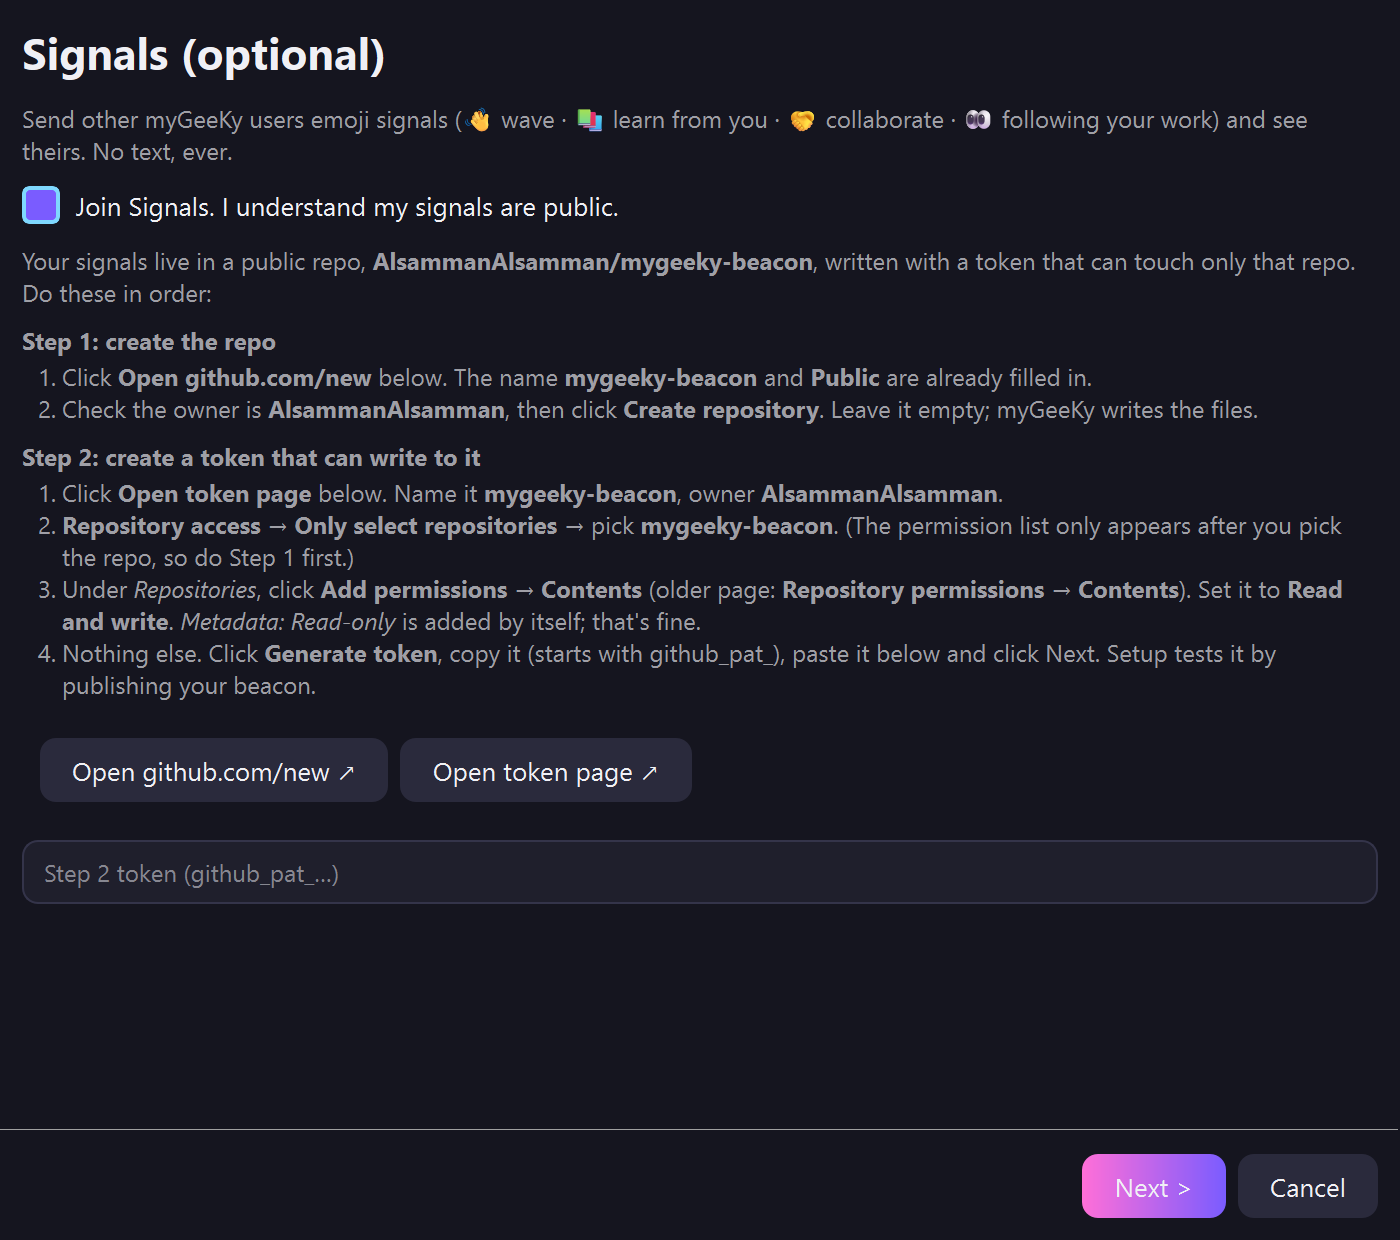
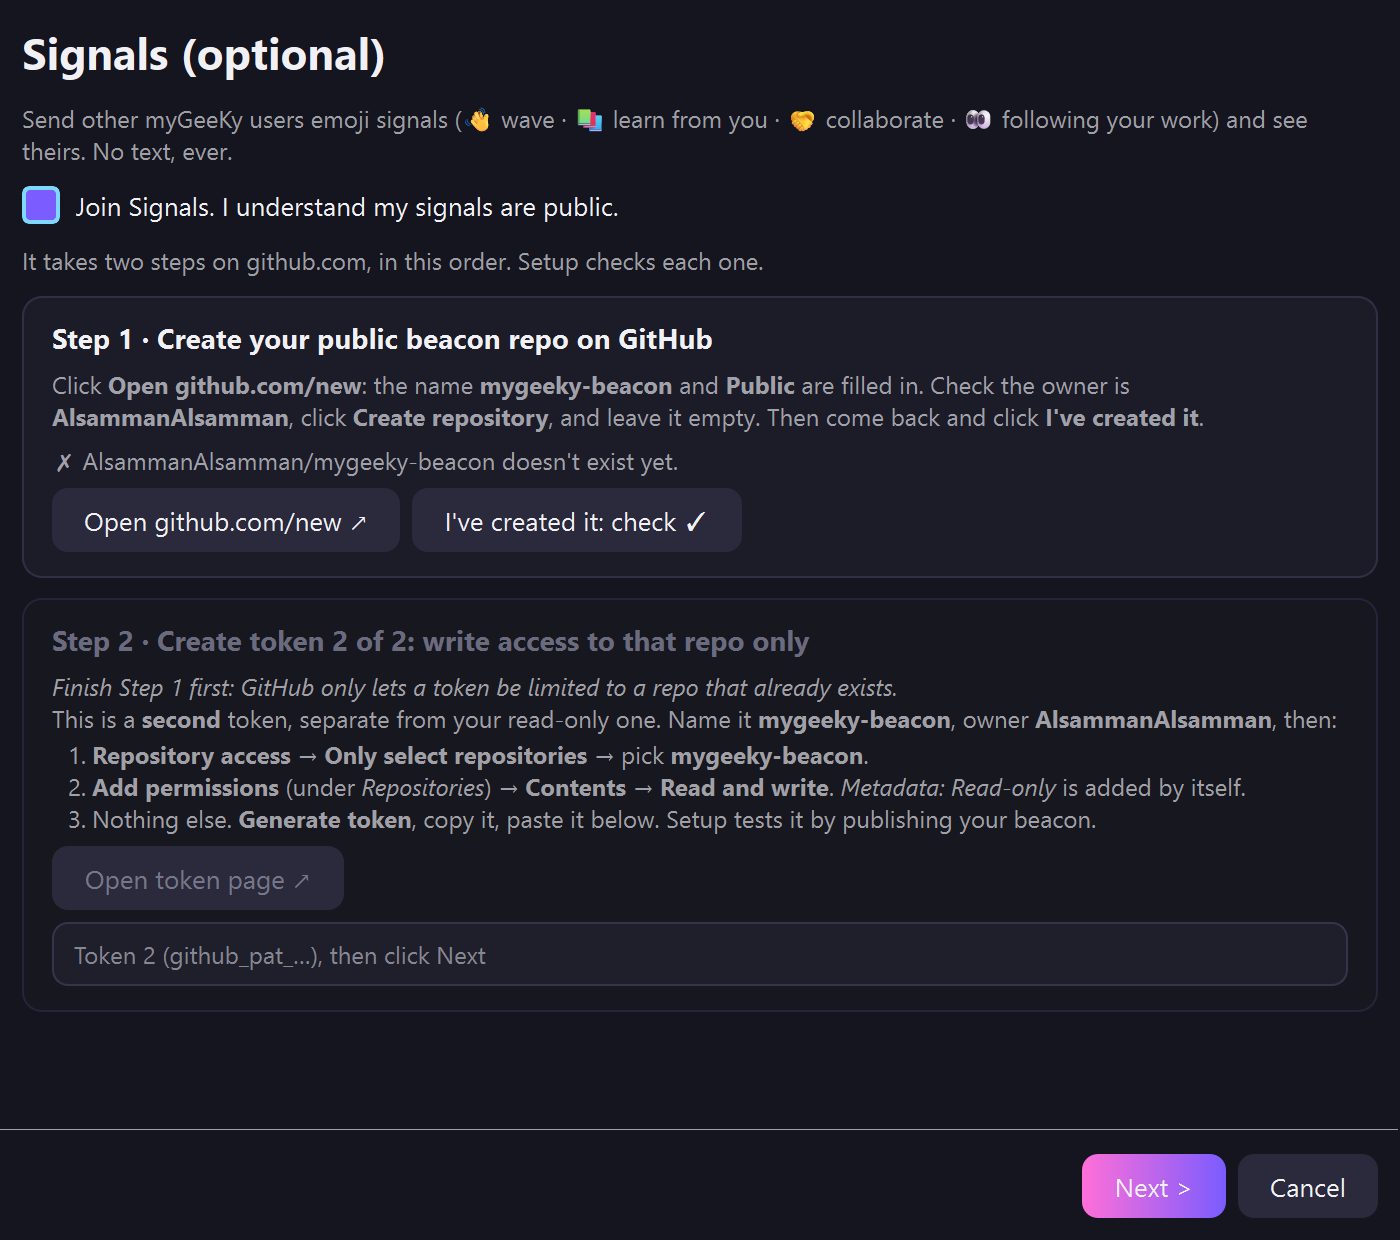
Signals setup in the installer: two steps, in order, with Step 2 locked until Step 1 is verified (0.4.6)
- The installer's Signals page is two cards. Step 1 (create the public
  mygeeky-beacon repo) shows a live ✗/✓ status from GitHub, with "Open
  github.com/new", "I've created it: check" and, when the GitHub CLI is
  installed, "Create it for me" (new setup_api action beacon_create_repo).
  Step 2 (the token) stays greyed out until the repo exists, because GitHub
  only lets a token be limited to an existing repo. Next refuses with a clear
  message if Step 1 or the token is missing.
- Both tokens are named for what they are: "token 1 of 2" (read-only, the
  Connect GitHub page) and "token 2 of 2" (Signals, write access to the
  beacon repo only), in the installer, `mygeeky beacon init` and the README.

Changed region(s): [[0.0, 0.1839, 0.9829, 0.7355], [0.0307, 0.7661, 0.3686, 0.7968]]

diff --git a/src/mygeeky/gui/setup_wizard.py b/src/mygeeky/gui/setup_wizard.py
@@ -33,6 +33,7 @@ from PySide6.QtWidgets import (
     QCheckBox,
     QFileDialog,
     QFormLayout,
+    QFrame,
     QHBoxLayout,
     QLabel,
     QLineEdit,
@@ -78,6 +79,10 @@ QCheckBox::indicator, QRadioButton::indicator { width: 15px; height: 15px; borde
 QCheckBox::indicator { border-radius: 4px; }
 QRadioButton::indicator { border-radius: 8px; }
 QCheckBox::indicator:checked, QRadioButton::indicator:checked { background: #7a5cff; border-color: #7fd8ff; }
+QFrame#stepCard { background: #1c1c29; border: 1px solid #2f2f45; border-radius: 10px; }
+QFrame#stepCard:disabled { background: #17171f; border-color: #24243a; }
+QLabel#stepTitle { font-size: 14px; font-weight: 700; }
+QLabel:disabled { color: #6b6b80; }
 QProgressBar { background: #1f1f2c; border: none; border-radius: 4px; height: 8px; }
 QProgressBar::chunk { background: qlineargradient(x1:0,y1:0,x2:1,y2:0, stop:0 #ff6fd8, stop:1 #7a5cff);
     border-radius: 4px; }
@@ -682,9 +687,10 @@ class ProfilePage(Page):
 
 class TokenPage(Page):
     def __init__(self) -> None:
-        super().__init__("Connect GitHub",
-                         "myGeeKy reads public profiles, repos and followers. It needs a token with "
-                         "read access only, and never anything that could follow someone.")
+        super().__init__("Connect GitHub: token 1 of 2",
+                         "myGeeKy reads public profiles, repos and followers, so this token is read-only "
+                         "and can never follow anyone. (Signals, on a later page and optional, uses a "
+                         "separate second token.)")
         self.keep = QRadioButton("")
         self.paste = QRadioButton("Paste a read-only token")
         self.add(self.keep)
@@ -764,7 +770,7 @@ class SyncPage(Page):
 LINK = 'style="color:#7fd8ff"'
 
 READ_TOKEN_STEPS = (
-    "<b>To create a read-only token:</b><ol style='margin:2px 0 0 -20px'>"
+    "<b>To create token 1 (read-only):</b><ol style='margin:2px 0 0 -20px'>"
     f"<li>Open <a {LINK} href='{READ_TOKEN_URL}'>github.com → new fine-grained token ↗</a>. "
     "Name it <b>mygeeky</b>.</li>"
     "<li><b>Repository access</b> → choose <b>Public repositories</b>.</li>"
@@ -778,113 +784,178 @@ NEW_BEACON_REPO_URL = ("https://github.com/new?name=mygeeky-beacon&visibility=pu
 OL = "<ol style='margin:2px 0 6px -20px'>"
 
 
-def beacon_steps(user: str, has_gh: bool, repo_exists: bool = False) -> str:
-    """The same steps as beacon.repo_steps/token_steps (kept in sync by hand:
-    this file can't import myGeeKy, which may not be installed yet)."""
-    repo = (f"✓ Done: <b>{user}/mygeeky-beacon</b> already exists." if repo_exists else
-            f"Setup creates the public repo <b>{user}/mygeeky-beacon</b> for you." if has_gh else
-            OL + "<li>Click <b>Open github.com/new</b> below. The name <b>mygeeky-beacon</b> and "
-            f"<b>Public</b> are already filled in.</li><li>Check the owner is <b>{user}</b>, then click "
-            "<b>Create repository</b>. Leave it empty; myGeeKy writes the files.</li></ol>")
-    return (
-        f"Your signals live in a public repo, <b>{user}/mygeeky-beacon</b>, written with a token that can "
-        "touch only that repo. Do these in order:"
-        f"<p style='margin:8px 0 2px'><b>Step 1: create the repo</b></p>{repo}"
-        "<p style='margin:8px 0 2px'><b>Step 2: create a token that can write to it</b></p>" + OL +
-        f"<li>Click <b>Open token page</b> below. Name it <b>mygeeky-beacon</b>, owner <b>{user}</b>.</li>"
-        "<li><b>Repository access</b> → <b>Only select repositories</b> → pick <b>mygeeky-beacon</b>. "
-        "(The permission list only appears after you pick the repo, so do Step 1 first.)</li>"
-        "<li>Under <i>Repositories</i>, click <b>Add permissions</b> → <b>Contents</b> "
-        "(older page: <b>Repository permissions</b> → <b>Contents</b>). Set it to <b>Read and write</b>. "
-        "<i>Metadata: Read-only</i> is added by itself; that's fine.</li>"
-        "<li>Nothing else. Click <b>Generate token</b>, copy it (starts with github_pat_), paste it below "
-        "and click Next. Setup tests it by publishing your beacon.</li></ol>")
+def _card(title: str) -> tuple[QFrame, QVBoxLayout]:
+    card = QFrame()
+    card.setObjectName("stepCard")
+    lay = QVBoxLayout(card)
+    lay.setContentsMargins(14, 10, 14, 12)
+    lay.setSpacing(6)
+    head = QLabel(title)
+    head.setObjectName("stepTitle")
+    lay.addWidget(head)
+    return card, lay
 
 
 class SignalsPage(Page):
+    """Two steps, in an order GitHub forces: the repo must exist before a token
+    can be limited to it. Step 2 stays locked until Step 1 is verified on GitHub."""
+
     def __init__(self) -> None:
         super().__init__("Signals (optional)",
                          "Send other myGeeKy users emoji signals (👋 wave · 📚 learn from you · "
                          "🤝 collaborate · 👀 following your work) and see theirs. No text, ever.")
-        self._stage = "none"
+        self._stage = "none"            # none | partial | live | checking
         self.enable = QCheckBox("Join Signals. I understand my signals are public.")
         self.add(self.enable)
-        self.steps = _label("", "muted")
-        self.steps.setTextFormat(Qt.RichText)
-        self.add(self.steps)
-        buttons = QHBoxLayout()
+        self.summary = _label("", "muted")
+        self.summary.setTextFormat(Qt.RichText)
+        self.add(self.summary)
+
+        # Step 1: the public repo
+        self.step1, lay1 = _card("Step 1 · Create your public beacon repo on GitHub")
+        self.step1_text = _label("", "muted")
+        self.step1_text.setTextFormat(Qt.RichText)
+        lay1.addWidget(self.step1_text)
+        self.step1_status = _label("")
+        lay1.addWidget(self.step1_status)
+        row1 = QHBoxLayout()
         self.open_repo = QPushButton("Open github.com/new ↗")
         self.open_repo.clicked.connect(lambda: QDesktopServices.openUrl(QUrl(NEW_BEACON_REPO_URL)))
+        self.create_repo = QPushButton("Create it for me")
+        self.create_repo.clicked.connect(self._create_repo)
+        self.check_repo = QPushButton("I've created it: check ✓")
+        self.check_repo.clicked.connect(self._recheck)
+        for b in (self.open_repo, self.create_repo, self.check_repo):
+            row1.addWidget(b)
+        row1.addStretch(1)
+        lay1.addLayout(row1)
+        self.add(self.step1)
+
+        # Step 2: a second token, for that repo only
+        self.step2, lay2 = _card("Step 2 · Create token 2 of 2: write access to that repo only")
+        self.step2_text = _label("", "muted")
+        self.step2_text.setTextFormat(Qt.RichText)
+        lay2.addWidget(self.step2_text)
+        row2 = QHBoxLayout()
         self.open_token = QPushButton("Open token page ↗")
         self.open_token.clicked.connect(lambda: QDesktopServices.openUrl(QUrl(READ_TOKEN_URL)))
-        buttons.addWidget(self.open_repo)
-        buttons.addWidget(self.open_token)
-        buttons.addStretch(1)
-        self.buttons = QWidget()
-        self.buttons.setLayout(buttons)
-        self.add(self.buttons)
+        row2.addWidget(self.open_token)
+        row2.addStretch(1)
+        lay2.addLayout(row2)
         self.token = QLineEdit()
         self.token.setEchoMode(QLineEdit.Password)
-        self.token.setPlaceholderText("Step 2 token (github_pat_…)")
-        self.add(self.token)
-        self.enable.toggled.connect(self._toggle)
+        self.token.setPlaceholderText("Token 2 (github_pat_…), then click Next")
+        lay2.addWidget(self.token)
+        self.add(self.step2)
+
+        self.enable.toggled.connect(lambda on: self._render())
         self.finish_layout()
 
-    def _toggle(self, on: bool) -> None:
+    # ---- state -> widgets
+    def _render(self) -> None:
         s = self.w.state
-        setting_up = on and not s.get("beacon_enabled")
-        live = self._stage == "live"
-        setting_up = on and not (live and s.get("beacon_enabled") and s.get("beacon_token"))
-        self.steps.setVisible(True)   # read what joining involves before deciding
-        self.buttons.setVisible(setting_up and not live)
-        self.open_repo.setVisible(setting_up and self._stage == "none" and not s.get("gh"))
-        self.token.setVisible(setting_up and not (live and s.get("beacon_token")))
+        user = s.get("github_username", "you")
+        on = self.enable.isChecked()
+        stage = self._stage
+        repo_exists = stage in ("partial", "live")
+        done = stage == "live" and s.get("beacon_enabled") and s.get("beacon_token")
+        self.step1.setVisible(on and not done)
+        self.step2.setVisible(on and not done)
+        if stage == "checking":
+            self.step1_status.setText("Checking GitHub…")
+        elif repo_exists:
+            self.step1_status.setText(f"✓ {user}/mygeeky-beacon exists and is public. Step 1 is done.")
+        else:
+            self.step1_status.setText(f"✗ {user}/mygeeky-beacon doesn't exist yet.")
+        self.step1_status.setObjectName("ok" if repo_exists else "muted")
+        self.step1_status.style().unpolish(self.step1_status)
+        self.step1_status.style().polish(self.step1_status)
+        self.step1_text.setText(
+            f"Click <b>Open github.com/new</b>: the name <b>mygeeky-beacon</b> and <b>Public</b> are filled "
+            f"in. Check the owner is <b>{user}</b>, click <b>Create repository</b>, and leave it empty. "
+            "Then come back and click <b>I've created it</b>.")
+        for b in (self.open_repo, self.check_repo):
+            b.setVisible(not repo_exists)
+        self.create_repo.setVisible(not repo_exists and bool(s.get("gh")))
+        self.check_repo.setEnabled(stage != "checking")
+
+        self.step2.setEnabled(repo_exists)
+        self.step2_text.setText(
+            ("<i>Finish Step 1 first: GitHub only lets a token be limited to a repo that already exists.</i><br>"
+             if not repo_exists else "") +
+            "This is a <b>second</b> token, separate from your read-only one. "
+            f"Name it <b>mygeeky-beacon</b>, owner <b>{user}</b>, then:" + OL +
+            "<li><b>Repository access</b> → <b>Only select repositories</b> → pick <b>mygeeky-beacon</b>.</li>"
+            "<li><b>Add permissions</b> (under <i>Repositories</i>) → <b>Contents</b> → <b>Read and write</b>. "
+            "<i>Metadata: Read-only</i> is added by itself.</li>"
+            "<li>Nothing else. <b>Generate token</b>, copy it, paste it below. Setup tests it by "
+            "publishing your beacon.</li></ol>")
         if s.get("beacon_token"):
             self.token.setPlaceholderText("Leave empty to use the token already saved, or paste a new one")
 
     def initializePage(self) -> None:  # noqa: N802
         super().initializePage()
-        self._stage = "checking"
-        self.steps.setText("Checking your Signals setup on GitHub…")
         self.enable.setChecked(bool(self.w.state.get("beacon_enabled")))
-        self._toggle(self.enable.isChecked())
+        self._recheck()
+
+    def _recheck(self) -> None:
+        self._stage = "checking"
+        self.summary.setText("Checking your Signals setup on GitHub…")
+        self._render()
         python = self.w.python
         self._checker = Worker(lambda wk: api(python, "beacon_check", timeout=60))
         self._checker.done.connect(self._checked)
         self._checker.start()
 
+    def _create_repo(self) -> None:
+        self.create_repo.setEnabled(False)
+        self.step1_status.setText("Creating it with the GitHub CLI…")
+        python = self.w.python
+        self._creator = Worker(lambda wk: api(python, "beacon_create_repo", timeout=120))
+        self._creator.done.connect(lambda r: (self.create_repo.setEnabled(True),
+                                              self.say(r.get("error"), "err") if not r.get("ok") else None,
+                                              self._recheck()))
+        self._creator.start()
+
     def _checked(self, result: Any) -> None:
         """Tick the box for anyone who already has a beacon on GitHub (from
-        another computer, or a setup that stopped halfway), and say exactly
-        where they stand. A brand-new user stays unticked: joining makes your
-        signals public, so it must be their own choice."""
+        another computer, or a setup that stopped halfway), and say where
+        they stand. A brand-new user stays unticked: joining makes signals
+        public, so it must be their own choice."""
         s = self.w.state
         user = s.get("github_username", "you")
         result = result if isinstance(result, dict) else {}
         self._stage = result.get("stage", "none") if result.get("ok") else "none"
-        lines = "".join(f"<br>{'✓' if ok else '✗'} {msg}" for ok, msg in result.get("results") or [])
         repo_link = f"<a {LINK} href='https://github.com/{user}/mygeeky-beacon'>{user}/mygeeky-beacon ↗</a>"
         if self._stage == "live":
             self.enable.setChecked(True)
-            extra = ("" if s.get("beacon_token") else
-                     "<br><br>To send signals from <b>this</b> computer, paste a token made with Step 2 below "
-                     "(or the one you used before).")
-            self.steps.setText(f"<b>You're on Signals:</b> {repo_link}{lines}{extra}")
+            if s.get("beacon_enabled") and s.get("beacon_token"):
+                self.summary.setText(f"<b>✓ You're on Signals:</b> {repo_link}. Nothing to do here.")
+            else:
+                self.summary.setText(f"<b>Your beacon is live</b> ({repo_link}). To send signals from this "
+                                     "computer, paste a token made with Step 2.")
         elif self._stage == "partial":
             self.enable.setChecked(True)
-            self.steps.setText(f"<b>Your Signals setup isn't finished yet</b> ({repo_link}):{lines}"
-                               "<br><br>" + beacon_steps(user, has_gh=True, repo_exists=True))
+            missing = [msg for ok, msg in result.get("results") or [] if not ok]
+            self.summary.setText(f"<b>Your Signals setup isn't finished yet</b> ({repo_link}). "
+                                 + (f"Still missing: {missing[-1]}" if missing else ""))
         else:
-            self.steps.setText(beacon_steps(user, has_gh=bool(s.get("gh"))))
-        self._toggle(self.enable.isChecked())
+            self.summary.setText("It takes two steps on github.com, in this order. Setup checks each one.")
+        self._render()
 
+    # ---- Next
     def job(self):
         s = self.w.state
         if not self.enable.isChecked():
             return None
         if self._stage == "live" and s.get("beacon_enabled") and s.get("beacon_token"):
             return None
+        if self._stage not in ("partial", "live"):
+            return lambda wk: {"ok": False, "error": "Do Step 1 first: create the mygeeky-beacon repo on GitHub, "
+                                                     "then click \"I've created it\". Or untick Join Signals."}
         token = self.token.text().strip()
+        if not token and not s.get("beacon_token"):
+            return lambda wk: {"ok": False, "error": "Paste token 2 (Step 2) first, or untick Join Signals."}
         python = self.w.python
         return lambda wk: api(python, "beacon_init", {"token": token})
 

diff --git a/src/mygeeky/setup_api.py b/src/mygeeky/setup_api.py
@@ -190,6 +190,18 @@ def beacon_check(req: dict[str, Any]) -> dict[str, Any]:
     return {"ok": True, "stage": stage, "results": [[ok, msg] for ok, msg in results]}
 
 
+def beacon_create_repo(req: dict[str, Any]) -> dict[str, Any]:
+    """Step 1 done for the user, when the GitHub CLI is installed and logged in."""
+    from . import auth, beacon
+    from .config import load_config
+    from .github_client import GitHubClient
+    _ensure_gh_on_path()
+    cfg = load_config()
+    notes = beacon.ensure_repo(cfg, GitHubClient(auth.get_token(cfg.github_username), rate_limit_sleep=0),
+                               create=True)
+    return {"ok": True, "notes": notes}
+
+
 def schedule(req: dict[str, Any]) -> dict[str, Any]:
     from . import scheduler
     message = scheduler.install(confirmed=True)
@@ -204,6 +216,7 @@ ACTIONS: dict[str, Callable[[dict[str, Any]], dict[str, Any]]] = {
     "sync_init": sync_init,
     "beacon_init": beacon_init,
     "beacon_check": beacon_check,
+    "beacon_create_repo": beacon_create_repo,
     "schedule": schedule,
 }
 

diff --git a/src/mygeeky/cli.py b/src/mygeeky/cli.py
@@ -1176,7 +1176,7 @@ def beacon_init() -> None:
     click.secho(f"  ✓ {repo} exists and is public.", fg="green")
 
     # Step 2: a token that can write to that one repo, tested by really publishing
-    click.secho("\nStep 2 of 3: a token that can write to that repo only", bold=True)
+    click.secho("\nStep 2 of 3: a second token, that can write to that repo only", bold=True)
     token = auth.get_beacon_token(user)
     for attempt in range(3):
         if not token:

diff --git a/src/mygeeky/beacon.py b/src/mygeeky/beacon.py
@@ -552,6 +552,7 @@ def repo_steps(user: str) -> list[str]:
 
 def token_steps(user: str) -> list[str]:
     return [
+        "This is a SECOND token, separate from your read-only one, and it needs the repo from step 1.",
         f"Open {TOKEN_URL}",
         f"Token name: mygeeky-beacon. Resource owner: {user}. Pick any expiration.",
         "Repository access: choose 'Only select repositories', then pick mygeeky-beacon.",

diff --git a/src/mygeeky/__init__.py b/src/mygeeky/__init__.py
@@ -4,4 +4,4 @@ myGeeKy never follows anyone automatically. It only ever suggests; you
 decide who to follow, by hand, on github.com.
 """
 
-__version__ = "0.4.5"
+__version__ = "0.4.6"

diff --git a/README.md b/README.md
@@ -221,8 +221,13 @@ mygeeky market        # what's rising in your field
 mygeeky beacon init
 ```
 
-It walks you through two things on github.com (a public `mygeeky-beacon` repo
-and a token that can write only to it), checking each step. Details in
+It walks you through two things on github.com, **in this order**:
+1. create a public repo named `mygeeky-beacon`;
+2. create a **second** token (separate from your read-only one) that can write
+   to that repo only. It can only be made once the repo exists.
+
+It checks each step before going on. The Windows installer does the same on its
+*Signals* page, where Step 2 unlocks once Step 1 is verified. Details in
 [Join Signals, step by step](#join-signals-step-by-step).
 
 <details>
@@ -487,7 +492,10 @@ each step worked before going on.
    empty; myGeeKy writes the files. (If the GitHub CLI `gh` is installed and
    logged in, myGeeKy creates the repo for you instead.)
 
-**Step 2: create a token that can write to that one repo.**
+**Step 2: create a second token, one that can write to that repo only.**
+This is separate from the read-only token you made when you set myGeeKy up,
+and it can only be made **after** Step 1: GitHub only lets a token be limited
+to a repo that already exists.
 1. Open [github.com/settings/personal-access-tokens/new](https://github.com/settings/personal-access-tokens/new).
    Name it `mygeeky-beacon`, with **Resource owner** set to you.
 2. **Repository access** → **Only select repositories** → pick `mygeeky-beacon`.
